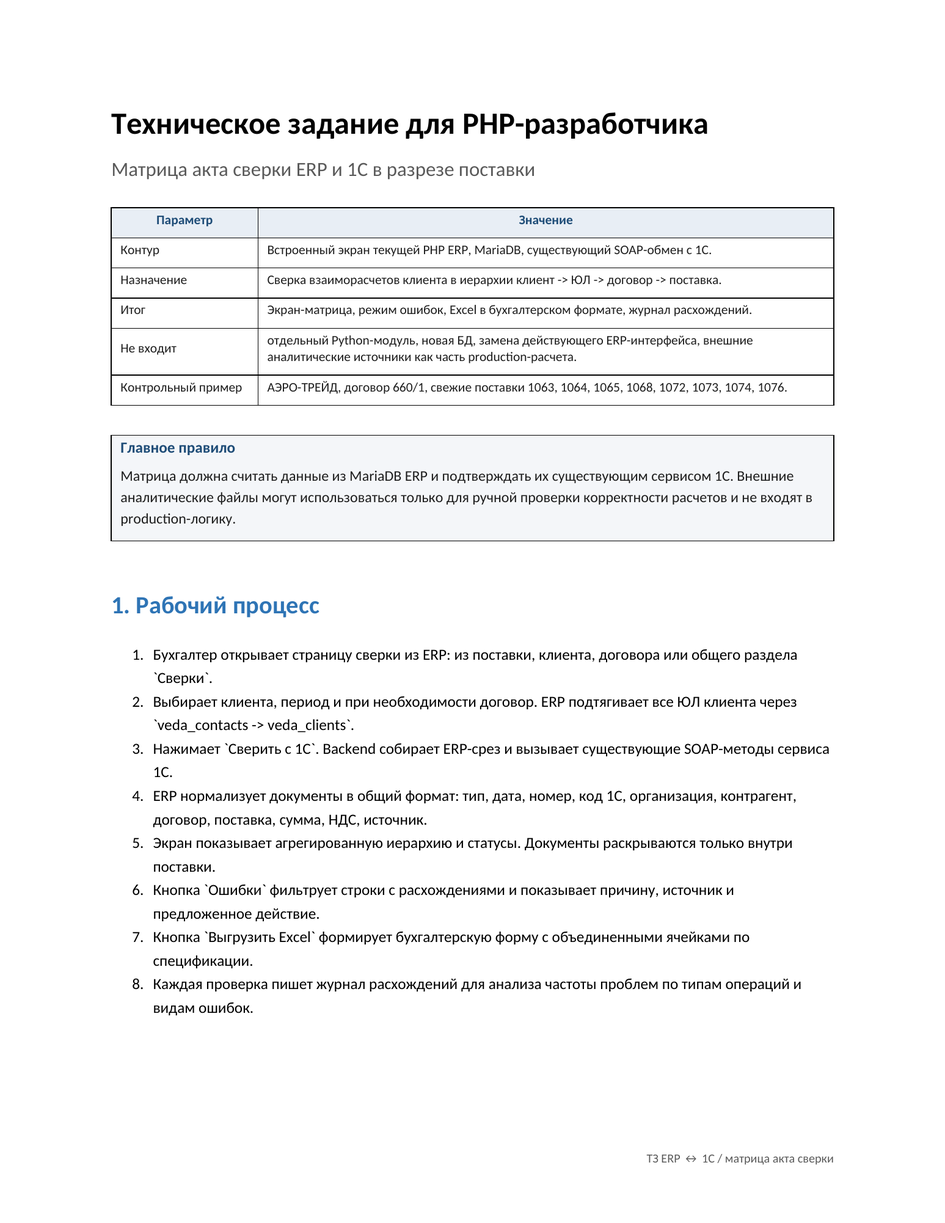
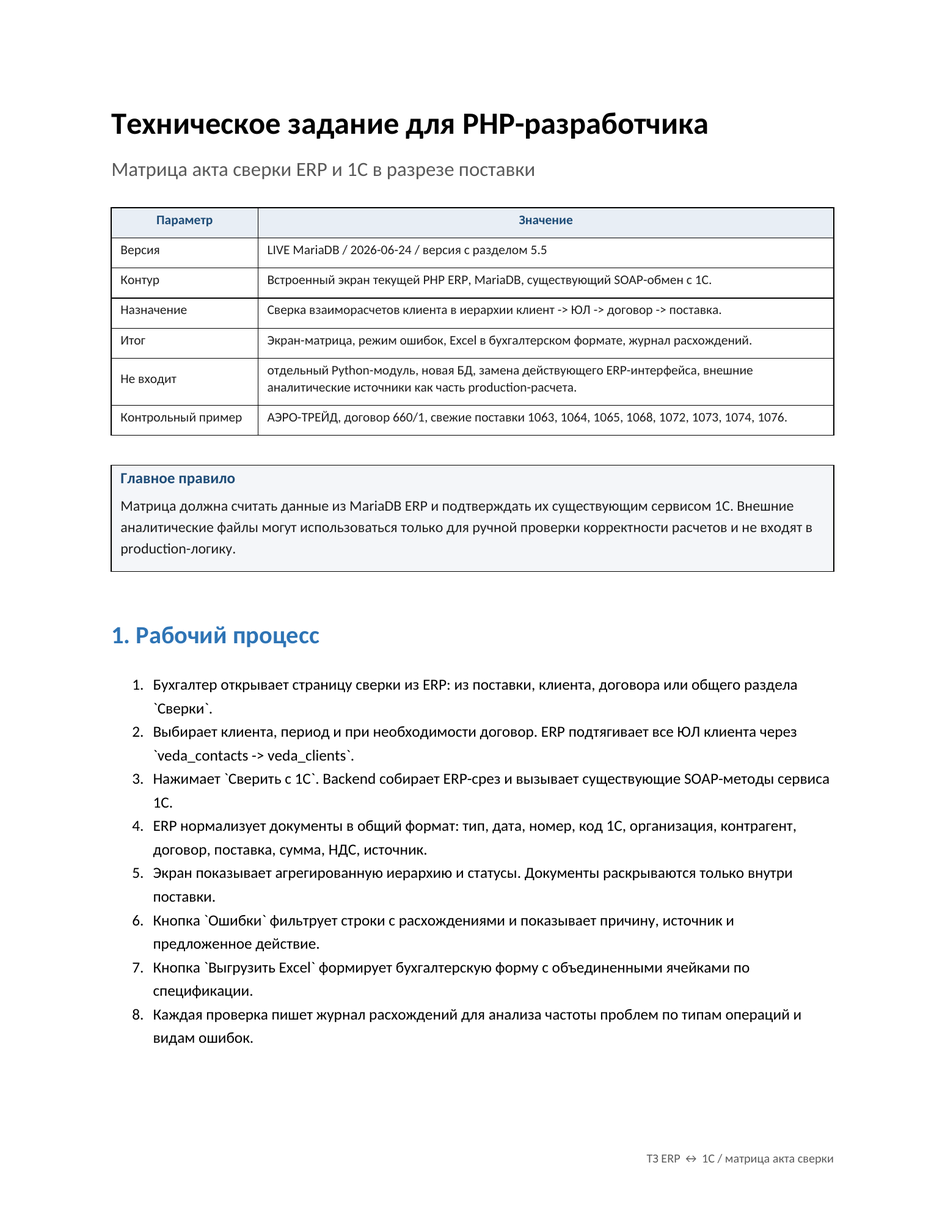
Publish versioned live MariaDB TZ artifacts

Changed region(s): [[0.1241, 0.2168, 0.8688, 0.8671], [0.2793, 0.1858, 0.8378, 0.3407]]

diff --git a/tools/build_final_developer_tz_docx.py b/tools/build_final_developer_tz_docx.py
@@ -1,4 +1,5 @@
 from pathlib import Path
+import shutil
 
 from docx import Document
 from docx.enum.section import WD_SECTION
@@ -11,6 +12,8 @@ from docx.shared import Inches, Pt, RGBColor
 
 ROOT = Path(__file__).resolve().parents[1]
 OUT = ROOT / "docs" / "TZ_ERP_1C_Akt_Sverki_Matrix.docx"
+VERSION_LABEL = "LIVE MariaDB / 2026-06-24 / версия с разделом 5.5"
+OUT_VERSIONED = ROOT / "docs" / "TZ_ERP_1C_Akt_Sverki_Matrix_LIVE_MARIADB_2026-06-24.docx"
 
 IMG_UI = ROOT / "screenshots" / "ui" / "matrix_aero_trade_660_1_fresh_fixture.png"
 IMG_ERRORS = ROOT / "screenshots" / "ui" / "matrix_errors_mode.png"
@@ -309,6 +312,7 @@ def title_page(doc):
         doc,
         ["Параметр", "Значение"],
         [
+            ("Версия", VERSION_LABEL),
             ("Контур", "Встроенный экран текущей PHP ERP, MariaDB, существующий SOAP-обмен с 1С."),
             ("Назначение", "Сверка взаиморасчетов клиента в иерархии клиент -> ЮЛ -> договор -> поставка."),
             ("Итог", "Экран-матрица, режим ошибок, Excel в бухгалтерском формате, журнал расхождений."),
@@ -530,7 +534,7 @@ GROUP BY ahd.f_docid;
             (
                 "6. Закрывающие документы",
                 "Из `fetch_erp_docs(spec_id)` брать `doc_kind='act'`; дедупликация по `code1c/number/date/sum`.",
-                "`closing_docs[]`: каждый акт/УПД/СФ отдельной строкой; не сворачивать в `+N документов`.",
+                "`closing_docs[]`: каждый акт/УПД/СФ отдельной строкой; не сворачивать список в счетчик количества документов.",
             ),
             (
                 "7. Дельта",
@@ -648,7 +652,7 @@ def add_excel(doc):
             ("Сумма оплаты", "распределенные оплаты по счету/поставке; дополнительные строки допускаются"),
             ("Возмещаемые расходы", "объединенная ячейка по спецификации"),
             ("Невозмещаемые расходы", "объединенная ячейка по спецификации"),
-            ("№ счф", "объединенная ячейка; все документы через Enter, не `+3 документов`"),
+            ("№ счф", "объединенная ячейка; все документы через Enter, без сокращений количества документов"),
             ("(+/-)", "объединенная ячейка по спецификации"),
         ],
         [2350, 7010],
@@ -750,7 +754,7 @@ def add_acceptance(doc):
         "Сумма оплаты берется из `veda_acchist_docs.f_clssum`; полная сумма банка не используется как оплата поставки.",
         "`f_isvozm=1` идет в возмещаемые расходы; `f_isvozm=2` идет в невозмещаемые расходы через `get_realizsum`; подрядные расходы без клиентской реализации исключаются из сальдо.",
         "`Нет СФ/УПД` определяется отсутствием закрывающего документа после загрузки источников, а `Вопрос по НДС` - только несовпадением ставки НДС ERP и 1С.",
-        "XLSX выгружает все документы в объединенной ячейке через Enter, без сокращения `+3 документов`.",
+        "XLSX выгружает все документы в объединенной ячейке через Enter, без сокращения списка до счетчика количества документов.",
         "Журнал расхождений пишет тип ошибки, источник, операцию, суммы и контекст поставки.",
         "Автотесты live-валидации проходят: `npm test` по текущему PR.",
     ]
@@ -790,7 +794,9 @@ def build_doc():
 
     OUT.parent.mkdir(parents=True, exist_ok=True)
     doc.save(OUT)
+    shutil.copyfile(OUT, OUT_VERSIONED)
     print(OUT)
+    print(OUT_VERSIONED)
 
 
 if __name__ == "__main__":

diff --git a/docs/TZ_ERP_1C_DEVELOPER_MATRIX_ALGORITHM.md b/docs/TZ_ERP_1C_DEVELOPER_MATRIX_ALGORITHM.md
@@ -1,0 +1,240 @@
+# Алгоритм матрицы акта сверки ERP ↔ 1С
+
+Этот документ фиксирует developer-level правила, которые должны быть реализованы в текущей PHP ERP. Источник production-расчета: MariaDB ERP + существующий PHP/SOAP-обмен с 1С. Внешние таблицы и аналитические XLSX не участвуют в production-логике.
+
+## Артефакты
+
+- Финальное ТЗ: `docs/TZ_ERP_1C_Akt_Sverki_Matrix_LIVE_MARIADB_2026-06-24.docx`.
+- PDF для просмотра: `docs/TZ_ERP_1C_Akt_Sverki_Matrix_LIVE_MARIADB_2026-06-24.pdf`.
+- Проверочная XLSX-выгрузка: `exports/AERO_TRADE_660-1_live_mariadb_reconciliation_20260624.xlsx`.
+- Машинный протокол live-проверки: `reference/aero_trade_660_1_live_mariadb_report_20260624.json`.
+
+## 1. Базовая иерархия
+
+Матрица строится деревом:
+
+1. Клиент: `veda_contacts`.
+2. ЮЛ клиента: `veda_clients`, связь `veda_clients.f_contactid = veda_contacts.f_id`.
+3. Договор: `veda_dogs`, связь `veda_dogs.f_contrid = veda_clients.f_id`.
+4. Поставка / спецификация: `veda_specs`, связь `veda_specs.f_dogid = veda_dogs.f_id`.
+5. Документы внутри поставки: счета, оплаты, акты, СФ/УПД.
+
+На уровнях клиент / ЮЛ / договор показываются только агрегаты дочерних поставок. Документы раскрываются только внутри поставки.
+
+```sql
+SELECT
+    c.f_id  AS contact_id,
+    cl.f_id AS legal_id,
+    d.f_id  AS dog_id,
+    s.f_id  AS spec_id,
+    s.f_num AS spec_num
+FROM veda_contacts c
+JOIN veda_clients cl ON cl.f_contactid = c.f_id
+JOIN veda_dogs d     ON d.f_contrid = cl.f_id
+JOIN veda_specs s    ON s.f_dogid = d.f_id
+WHERE c.f_id = :contact_id
+  AND (:legal_id IS NULL OR cl.f_id = :legal_id)
+  AND (:dog_id IS NULL OR d.f_id = :dog_id);
+```
+
+## 2. Операции поставки
+
+В поставку входят операции, привязанные напрямую к спецификации, и операции, привязанные через `f_parenttype=4`.
+
+```sql
+SELECT
+    si.f_id,
+    si.f_specid,
+    si.f_parenttype,
+    si.f_isvozm,
+    si.f_nds,
+    si.f_name
+FROM veda_spec_invoices si
+LEFT JOIN veda_categs cg
+       ON cg.f_objectid = si.f_id
+      AND cg.f_ctgtype = 24
+      AND cg.f_objecttype = 5
+WHERE (si.f_parenttype = 2 AND si.f_specid = :spec_id)
+   OR (si.f_parenttype = 4 AND CAST(cg.f_valstr AS SIGNED) = :spec_id);
+```
+
+Для каждой операции нужно получить существующие ERP-функции/процедуры:
+
+- `get_paidsum(operation_id)` — распределенная оплата операции;
+- `get_realizsum(operation_id)` — сумма реализации по операции;
+- `get_expensessum(operation_id)` — расходы по операции для диагностики;
+- `get_profit(operation_id)` — прибыль/разница для диагностики.
+
+Правила классификации:
+
+- `veda_spec_invoices.f_isvozm = 1` — возмещаемые расходы;
+- `veda_spec_invoices.f_isvozm = 2` — невозмещаемые операции;
+- подрядные расходы без клиентской реализации не подтягиваются в взаиморасчет клиента и логируются отдельно.
+
+## 3. Счета покупателю
+
+В колонку `Счет` и `Сумма по счету` попадают только счета покупателю.
+
+```sql
+SELECT DISTINCT
+    main.f_id,
+    main.f_num,
+    main.f_dt,
+    main.f_sum,
+    main.f_val,
+    main.f_kod1c
+FROM veda_schets child
+JOIN veda_schets main
+  ON main.f_id = IF(child.f_maininv > 0, child.f_maininv, child.f_id)
+WHERE child.f_operid IN (:operation_ids)
+  AND main.f_type = 1;
+```
+
+Правила:
+
+- `veda_schets.f_type = 1` — счет покупателю;
+- `veda_schets.f_type = 2` — счет от поставщика, в матрицу взаиморасчетов с клиентом не попадает;
+- если есть дочерние строки счета, в XLSX показывается основной счет один раз.
+
+## 4. Оплаты
+
+Сумма оплаты поставки берется не из общей суммы банковского документа, а из распределенной суммы строки классификации.
+
+```sql
+SELECT
+    ahd.f_docid AS operation_id,
+    SUM(ahd.f_clssum) AS paid_sum
+FROM veda_acchist_docs ahd
+JOIN veda_acchist ah ON ah.f_id = ahd.f_acchistid
+WHERE ahd.f_doctype = 3
+  AND ahd.f_docid IN (:operation_ids)
+  AND ah.f_type = 0
+GROUP BY ahd.f_docid;
+```
+
+Контроль:
+
+- `paid_total_acchist_docs = SUM(veda_acchist_docs.f_clssum)`;
+- `paid_total_get_paidsum = SUM(get_paidsum(operation_id))`;
+- если суммы отличаются больше чем на 0,01, ставится статус `PAYMENT_ROUTINE_VS_DOCS_MISMATCH`.
+
+## 5. Возмещаемые и невозмещаемые расходы
+
+Суммы колонок строятся по `get_realizsum`, а не по платежам и не по общей сумме актов.
+
+```text
+Возмещаемые расходы     = SUM(get_realizsum(operation_id) WHERE f_isvozm = 1)
+Невозмещаемые расходы   = SUM(get_realizsum(operation_id) WHERE f_isvozm = 2)
+Реализация поставки     = Возмещаемые + Невозмещаемые + прочая клиентская реализация
+```
+
+Если строка в 1С является нашей себестоимостью по подрядчику, а не клиентской реализацией, договор клиента не добавляется искусственно. Такая строка может подтверждать расход, но не должна менять сальдо клиента.
+
+## 6. СФ/УПД и закрывающие документы
+
+В колонку `№ счф` выводятся все закрывающие документы поставки. Нельзя заменять список счетчиком количества документов.
+
+Формат одной строки внутри объединенной ячейки:
+
+```text
+{код 1С или номер} от {дата} ({сумма})
+```
+
+Если документов несколько, они выводятся через Enter внутри одной объединенной ячейки.
+
+Статус `Нет СФ/УПД` ставится только после загрузки документов из ERP и 1С, если закрывающий документ действительно отсутствует. Статус `Вопрос по НДС` проверяет только расхождение ставки НДС ERP и 1С, а не возмещаемость.
+
+## 7. Формула сальдо
+
+Колонка `(+/-)` — это дельта между распределенными поступлениями и реализацией:
+
+```text
+(+/-) = SUM(get_paidsum) - SUM(get_realizsum)
+```
+
+Сумма счетов покупателю сверяется отдельно и не входит в формулу `(+/-)`. Поэтому ситуация “оплата 25 000, счет 5 000, дельта 0” недопустима, если реализация по поставке не равна оплате.
+
+## 8. Структура блока поставки для backend
+
+PHP backend должен собирать один нормализованный массив. Из него строятся и экран, и XLSX.
+
+```php
+$block = [
+    'contact' => ['id' => ..., 'name' => ..., 'inn' => ...],
+    'legal'   => ['id' => ..., 'name' => ..., 'inn' => ...],
+    'dog'     => ['id' => ..., 'num' => ..., 'code1c' => ...],
+    'spec'    => ['id' => ..., 'num' => ..., 'date' => ..., 'code1c' => ...],
+
+    'customer_invoices' => [
+        ['number' => ..., 'date' => ..., 'sum' => ..., 'currency' => ..., 'code1c' => ...],
+    ],
+
+    'closing_docs' => [
+        ['number' => ..., 'date' => ..., 'sum' => ..., 'code1c' => ..., 'nds_rate' => ...],
+    ],
+
+    'totals' => [
+        'invoice_sum' => ...,
+        'paid_total_get_paidsum' => ...,
+        'paid_total_acchist_docs' => ...,
+        'reimbursable_realization_get_realizsum' => ...,
+        'non_reimbursable_realization_get_realizsum' => ...,
+        'realization_total_get_realizsum' => ...,
+        'settlement_delta_paid_minus_realization' => ...,
+    ],
+
+    'statuses' => [...],
+];
+```
+
+## 9. Раскладка XLSX
+
+XLSX должен быть бухгалтерской формой, а не копией экранной матрицы.
+
+| Колонка | Что кладем | Формат |
+| --- | --- | --- |
+| `№ спецификации` | `Спецификация {veda_specs.f_num}` | объединить по числу строк счетов |
+| `Счет` | каждый счет покупателю отдельной строкой | не объединять |
+| `Сумма по счету` | сумма соответствующего счета + валюта | не суммировать разные валюты без курса |
+| `Сумма оплаты` | `paid_total_get_paidsum` | объединить по поставке |
+| `Возмещаемые расходы` | `reimbursable_realization_get_realizsum` | объединить по поставке |
+| `Невозмещаемые расходы` | `non_reimbursable_realization_get_realizsum` | объединить по поставке |
+| `№ счф` | все `closing_docs`, каждая строка через Enter | объединить по поставке, включить wrap text |
+| `(+/-)` | `settlement_delta_paid_minus_realization` | объединить по поставке, выделить цветом при ненуле |
+
+Итоговая строка называется `ИТОГО`; в ней не должно быть номеров строк внешних таблиц.
+
+## 10. Статусы и логирование
+
+Минимальный набор статусов:
+
+- `OK`;
+- `Нет в 1С`;
+- `Нет в ERP`;
+- `Сумма расходится`;
+- `Нет СФ/УПД`;
+- `Вопрос по НДС`;
+- `Есть остаток`;
+- `Договор расходится`;
+- `Недостаточно данных`;
+- `PAYMENT_ROUTINE_VS_DOCS_MISMATCH`;
+- `EXCLUDED_CONTRACTOR_EXPENSE`.
+
+Каждый запуск сверки должен писать журнал расхождений: клиент, ЮЛ, договор, поставка, операция, тип документа, источник ERP/1С, код ошибки, суммы ERP/1С, дельта, ставка НДС ERP/1С, дата проверки. Это нужно для последующего анализа частоты и природы проблем.
+
+## 11. Live-контроль 660/1
+
+Контрольный live-набор собран серверным SQL-скриптом с MariaDB ERP по договору 660/1.
+
+Итоги:
+
+| Показатель | Сумма |
+| --- | ---: |
+| `SUM(get_paidsum)` | 2 331 111,33 |
+| `SUM(veda_acchist_docs.f_clssum)` | 2 331 111,33 |
+| `SUM(get_realizsum)` | 2 415 525,73 |
+| Возмещаемые через `get_realizsum` | 2 152 392,27 |
+| Невозмещаемые через `get_realizsum` | 263 133,46 |
+| `(+/-)` | -84 414,40 |
+
+Эти цифры являются проверкой SQL-связей и формул. Production PHP должен воспроизводить тот же принцип расчета на выбранных пользователем клиентах, договорах и поставках.

diff --git a/README.md b/README.md
@@ -4,8 +4,11 @@
 
 ## Основные артефакты
 
-- `docs/TZ_ERP_1C_Akt_Sverki_Matrix.docx` - итоговое ТЗ.
-- `docs/TZ_ERP_1C_Akt_Sverki_Matrix.pdf` - PDF-рендер ТЗ для быстрого просмотра.
+- `docs/TZ_ERP_1C_Akt_Sverki_Matrix_LIVE_MARIADB_2026-06-24.docx` - актуальное итоговое ТЗ с live MariaDB-версией и разделом 5.5.
+- `docs/TZ_ERP_1C_Akt_Sverki_Matrix_LIVE_MARIADB_2026-06-24.pdf` - PDF-рендер актуального ТЗ для быстрого просмотра.
+- `docs/TZ_ERP_1C_DEVELOPER_MATRIX_ALGORITHM.md` - читаемый в GitHub алгоритм сборки матрицы и XLSX: SQL, формулы, раскладка колонок.
+- `docs/TZ_ERP_1C_Akt_Sverki_Matrix.docx` - тот же итоговый DOCX без суффикса версии.
+- `docs/TZ_ERP_1C_Akt_Sverki_Matrix.pdf` - тот же PDF без суффикса версии.
 - `exports/AERO_TRADE_660-1_live_mariadb_reconciliation_20260624.xlsx` - live-выгрузка по договору 660/1, собранная SQL-запросами с сервера к MariaDB.
 - `reference/aero_trade_660_1_live_mariadb_report_20260624.json` - машинный протокол live-прогона: операции, счета, оплаты, закрывающие документы и суммы `get_*`.
 - `screenshots/docx/` - постраничный PNG-рендер ТЗ.
@@ -16,8 +19,9 @@
 
 Финальный документ для передачи PHP-разработчику:
 
-- `docs/TZ_ERP_1C_Akt_Sverki_Matrix.docx`;
-- `docs/TZ_ERP_1C_Akt_Sverki_Matrix.pdf`.
+- `docs/TZ_ERP_1C_Akt_Sverki_Matrix_LIVE_MARIADB_2026-06-24.docx`;
+- `docs/TZ_ERP_1C_Akt_Sverki_Matrix_LIVE_MARIADB_2026-06-24.pdf`;
+- `docs/TZ_ERP_1C_DEVELOPER_MATRIX_ALGORITHM.md`.
 
 Документ описывает производственную доработку встроенного ERP-интерфейса, а не отдельный сервис: PHP ERP, MariaDB и существующий PHP/SOAP-слой 1С.
 Раздел `5.5 Сквозной алгоритм для PHP-разработчика` в DOCX/PDF описывает, какие данные выбирать, как агрегировать блок поставки и как заполнять каждую колонку XLSX.
